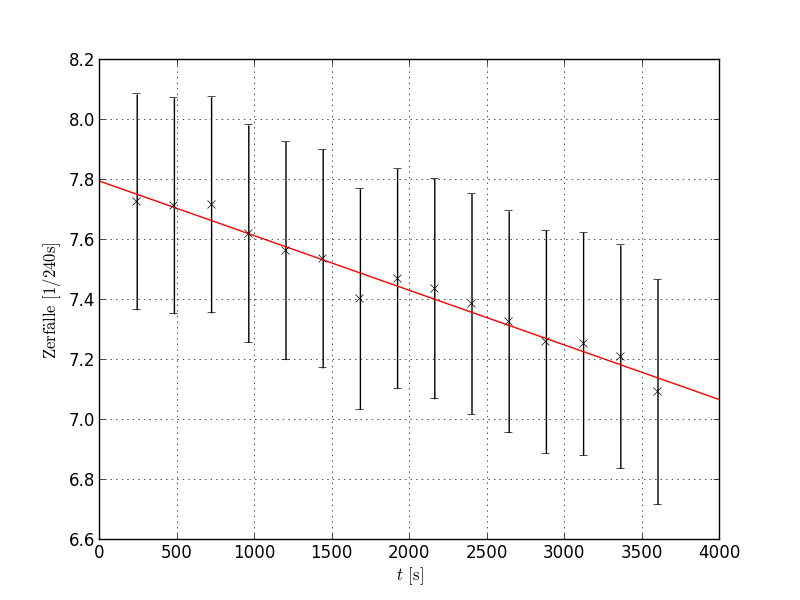
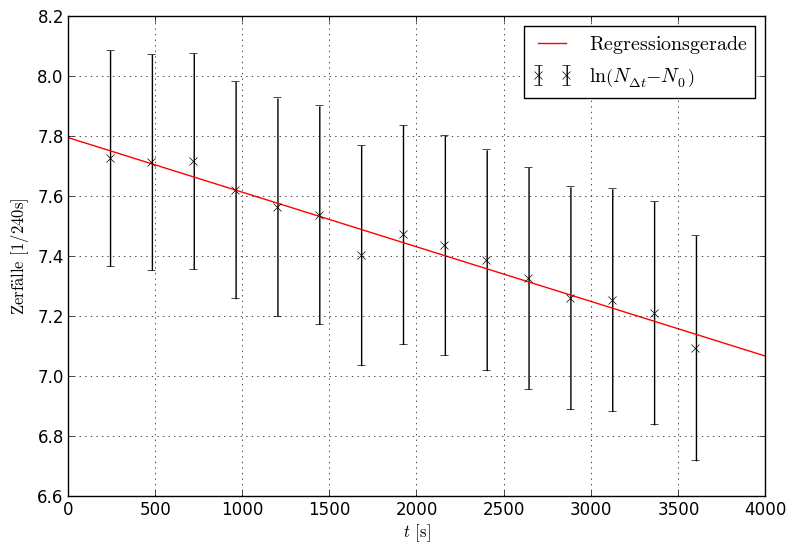
Fast alles feddich. Diskussion fehlt noch

diff --git a/V702_Aktivierung/03_auswertung.tex b/V702_Aktivierung/03_auswertung.tex
@@ -1,51 +1,52 @@
 \section{Auswertung}
 	\label{sec:auswertung}
 	Vor allen Messungen musste der Nulleffekt ermittelt werden, um unsere Messwerte sp"ater von diesem zu bereinigen.
-	Hierf"ur wurden die Zerf"alle $N_0$, die ohne Probe ermittelt werden, "uber lange Zeit gez"ahlt.
-	Anschlie"send konnten die eigentlichen Messungen durchgef"uhrt werden.
+	Hierf"ur wurden die Zerf"alle $N_{\mathrm{u}}$, die ohne Probe ermittelt werden, "uber lange Zeit gez"ahlt.
+	Anschlie"send konnten die eigentlichen Messungen durch\-ge\-f"uhrt werden.
 	
 
-	Um auf die Halbwertszeiten zu schlie"sen konnten die Beziehungen \eqref{bla} aus Kapitel \ref{sec:theorie} verwendet werden.
+	Um auf die Halbwertszeiten zu schlie"sen konnte die Beziehung \eqref{eqn:t_halb} aus Kapitel \ref{sec:theorie} verwendet werden.
 	Weil die Messwerte Poisson-verteilt sind, betrug der Fehler auf die Messwerte
 
-	\begin{eqnarray}
-		\Delta N_{\Delta t, \mathrm{roh}} & = & \sqrt{N_{\Delta t, \mathrm{roh}}}, \\
-		\Delta N_0 & = & \sqrt{N_0},\\
-		\Rightarrow \Delta N_{\Delta t} & = & \sqrt{N_{\Delta t, \mathrm{roh}} + N_0}.
-	\end{eqnarray}
+	\begin{eqnarray*}
+		\Delta N_{\Delta t, \mathrm{gem}} & = & \sqrt{N_{\Delta t, \mathrm{gem}}}, \\
+		\Delta N_{\Delta t, \mathrm{u}} & = & \sqrt{N_{\Delta t, \mathrm{u}}},\\
+		\Rightarrow \Delta N_{\Delta t} & = & \sqrt{N_{\Delta t, \mathrm{gem}} + N_{\Delta t, \mathrm{u}}} .
+	\end{eqnarray*}
 
+	$N_{\Delta t, \mathrm{u}}$ bezeichnet dabei den Nulleffekt pro Messung.
 	Um eine Ausgleichsrechnung durchzuf"uhren wurden die Werte linearisiert, was einen weiteren Fehler durch Gau"s'sche Fehlerfortpflanzung erzeugt:
 
-	\begin{equation}
-		\Delta N = \frac{\partial}{\partial N} \ln{\left( N_{\Delta t, \mathrm{roh}} - N_0 \right)} \cdot \Delta N_{\Delta t} = \frac{\Delta N_{\Delta t}}{N_{\Delta t, \mathrm{roh}} - N_0}
-	\end{equation}
+	\begin{equation*}
+		\Delta N_{l} = \frac{\partial}{\partial N_{\Delta t, \mathrm{gem}}} \ln{\left( N_{\Delta t, \mathrm{gem}} - N_{\Delta t, \mathrm{u}} \right)} \cdot \Delta N_{\Delta t} = \frac{\Delta N_{\Delta t}}{N_{\Delta t, \mathrm{gem}} - N_{\Delta t, \mathrm{u}}} .
+	\end{equation*}
 
 	Schlie"slich konnte eine lineare Regression durchgef"uhrt werden, welche $\lambda$ und somit die Halbwertszeiten $T$ lieferte.
 
 	\subsection{Halbwertszeit von Indium}
 		\label{subsec:indium}
 		Es wurden 15 Messungen "uber jeweils $\Delta t = \SI{240}{\second}$ durchgef"uhrt.
-		Anschlie"send konnte, wie oben beschrieben, durch lineare Regression $T_\mathrm{In}$ ermittelt werden. Es musste dabei wiederum ein Gau"s'scher Fehler ber"uchsichtigt werden:
+		Anschlie"send konnte, wie oben beschrieben, durch lineare Regression $T_\mathrm{In}$ ermittelt werden. Es musste dabei wiederum ein Gau"s'scher Fehler ber"ucksichtigt werden:
 
-		\begin{equation}
-			\Delta T = \left|\frac{\partial T}{\partial \lambda} \cdot \Delta \lambda \right| = \frac{\Delta \lambda}{\lambda^2} \ln{2}
-		\end{equation}
+		\begin{displaymath}
+			\Delta T = \left|\frac{\partial T}{\partial \lambda} \cdot \Delta \lambda \right| = \frac{\Delta \lambda}{\lambda^2} \ln{2} ,
+		\end{displaymath}
 
-
+		wobei $\Delta \lambda$ den Fehler der linearen Regression bezeichnet.
 		Es ergaben sich die Werte
 
-		\begin{eqnarray}
+		\begin{eqnarray*}
 			\lambda & = & \SI{18.212 (94)e-3}{\per \second} , \\
 			T_\mathrm{In} & = & \SI{3823 (195)}{\second} = \SI{1}{\hour}\,\SI{3.417 (3250)}{\minute} .
-		\end{eqnarray}
+		\end{eqnarray*}
 
-		\begin{table}
+		\begin{table}[!h]
 			\begin{center}
 				\label{tabelle:indium}
 				\caption{Messwerte f"ur Indium-116}
 				\begin{tabular}{|c|c||c|c|}
 					\hline 
-					Messung & $N_{\Delta t, \mathrm{roh}}[1 / 240\,\mathrm{s}]$ & Messung & $N_{\Delta t, \mathrm{roh}}[1 / 240\,\mathrm{s}]$\\
+					Messung & $N_{\Delta t, \mathrm{gem}}[1 / 240\,\mathrm{s}]$ & Messung & $N_{\Delta t, \mathrm{gem}}[1 / 240\,\mathrm{s}]$\\
 					\hline 
 					\input{data/indium_raw.tex}
 					\hline 
@@ -60,42 +61,45 @@
 			\label{fig:indium}
 		\end{figure}
 
-	\newpage
+	\clearpage
 
 	\subsection{Halbwertszeit von Rhodium}
 		\label{subsec:rhodium}
 		Bei dieser Messung war zu beachten, dass die Probe zwei verschiedene Isotope ${}_{45}^{104}\mathrm{Rh}$ und das angeregte ${}_{45}^{104i}\mathrm{Rh}$ enthielt.
 		Weil beide Isotope aber unterschiedliche Halbwertszeiten $T_\mathrm{Rh}$ haben,
-		konnte zun"achst, wie in \ref{theorie} beschrieben, die gr"o"sere Halbwertszeit $T_{\mathrm{Rh}, 2}$ bestimmt werden.
+		konnte zun"achst, wie in Kapitel \ref{sec:theorie} beschrieben, die gr"o"sere Halbwertszeit $T_{\mathrm{Rh}, 2}$ bestimmt werden.
 
 		Anschlie"send wurden die hierdurch verursachten Zerf"alle von den ersten 19 Messwerten abgezogen und wie in Kapitel \ref{subsec:indium} fortgefahren.
 
 		$T_{\mathrm{Rh}, 1}$ bezeichnet im Folgenden die Halbwertszeit f"ur die ersten 19 Messwerte, also ${}_{45}^{104i}\mathrm{Rh}$ und $T_{\mathrm{Rh}, 2}$ f"ur die letzten 19 Messwerte, also ${}_{45}^{104}\mathrm{Rh}$.
 
 		Zwei mittlere Messwerte wurden ausgelassen, weil die statistischen Schwankungen zu fehlern in der Rechnung f"uhrten.
+		\newline
 
 
 		F"ur ${}_{45}^{104}\mathrm{Rh}$ ergab sich dann
 
-		\begin{eqnarray}
+		\begin{eqnarray*}
 			\lambda & = & \SI{16.85 (93)e-3}{\per \second} , \\
 			T_\mathrm{In} & = & \SI{41.146 (2270)}{\second} .
-		\end{eqnarray}
+		\end{eqnarray*}
 
-		F"ur ${}_{45}^{104i}\mathrm{Rh}$ lieferten die Werte
+		F"ur ${}_{45}^{104i}\mathrm{Rh}$ lieferten die Messwerte
 
-		\begin{eqnarray}
+		\begin{eqnarray*}
 			\lambda & = & \SI{2.418 (840)e-3}{\per \second} , \\
 			T_\mathrm{In} & = & \SI{286.63 (9958)}{\second} = \SI{4.78 (66)}{\minute} .
-		\end{eqnarray}
+		\end{eqnarray*}
 
-		\begin{table}
+		\clearpage
+
+		\begin{table}[!h]
 			\begin{center}
 				\caption{Messwerte f"ur Rhodium}
 				\label{tabelle:rhodium}
-				\begin{tabular}{|c|c||c|c|}
+				\begin{tabular}{|c|c||c|c||c|c|}
 					\hline 
-					Messung & $N_{\Delta t, \mathrm{roh}}[1 / 12\,\mathrm{s}]$ & Messung & $N_{\Delta t, \mathrm{roh}}[1 / 12\,\mathrm{s}]$\\
+					Messung & $N_{\Delta t, \mathrm{gem}}[1 / 12\,\mathrm{s}]$ & Messung & $N_{\Delta t, \mathrm{gem}}[1 / 12\,\mathrm{s}]$ & Messung & $N_{\Delta t, \mathrm{gem}}[1 / 12\,\mathrm{s}]$\\
 					\hline 
 					\input{data/rhodium_raw.tex}
 					\hline 
@@ -103,9 +107,13 @@
 			\end{center}
 		\end{table}
 
-		\begin{figure}[h]
+		\enlargethispage{5cm}
+
+		\begin{figure}[!h]
 			\centering
-			\includegraphics[width = 15cm]{img/graph_rhodium_linearisiert.png}
+			\includegraphics[width = 14cm]{img/graph_rhodium_linearisiert.png}
 			\caption{Bereinigte Messwerte und Graph f"ur Rhodium-104 und Rhodium 104i}
 			\label{fig:the_label}
 		\end{figure}
+
+		\clearpage

diff --git a/V702_Aktivierung/data/fit_linear.py b/V702_Aktivierung/data/fit_linear.py
@@ -5,7 +5,7 @@ from scipy.optimize import curve_fit
 import datetime as dt
 import pylab
 
-data = 'rhodium'
+data = 'indium'
 
 if data == 'rhodium':
 	# Graph fuer Rhodium
@@ -71,7 +71,7 @@ if data == 'rhodium':
 	plt.plot(x2_theorie_punkte, funk(x2_theorie_punkte, p2[0], p2[1]), 'b--')
 	werte_2 = plt.errorbar(x2, y2, yerr = np.sqrt(y2 + N_Dunkel) / (y2 - N_Dunkel), fmt = 'yx')
 
-	plt.legend((werte_1, gerade_1, werte_2, gerade_2), (r'$\ln{\left(N_{\Delta t} - N_{\Delta , l} - N_0 \right)}$', r'$\mathrm{Theoriekurve\ 1}$', r'$\ln{\left( N_{\Delta t} - N_0 \right)}$', r'$\mathrm{Theoriekurve\ 2}$'))
+	plt.legend((werte_1, gerade_1, werte_2, gerade_2), (r'$\ln{\left(N_{\Delta t} - N_{\Delta , l} - N_0 \right)}$', r'$\mathrm{Regressionsgerade\ 1}$', r'$\ln{\left( N_{\Delta t} - N_0 \right)}$', r'$\mathrm{Regressionsgerade\ 2}$'))
 
 	t_halb1 = np.log(2) / p[0]
 	t_halb2 = np.log(2) / p2[0]
@@ -110,9 +110,10 @@ elif data == 'indium':
 	p, cov = curve_fit(funk, x, y, p0 = vor_werte, sigma = y_error, maxfev = 1000)
 	print(p)
 	print(cov)
-	plt.plot(x_theorie, funk(x_theorie, p[0], p[1]), 'r-')
 
-	plt.errorbar(x, y, yerr = np.sqrt(y + N_Dunkel) / (y - N_Dunkel), fmt = 'kx')
+	gerade, = plt.plot(x_theorie, funk(x_theorie, p[0], p[1]), 'r-')
+	werte = plt.errorbar(x, y, yerr = np.sqrt(y + N_Dunkel) / (y - N_Dunkel), fmt = 'kx')
+	plt.legend((gerade, werte), (r'$\mathrm{Regressionsgerade}$', r'$\ln{\left( N_{\Delta t} - N_0 \right)}$'))
 
 	t_halb = np.log(2) / p[0]
 	t_halb_err = np.log(2) * np.sqrt(cov[0][0]) / (p[0] ** 2)
@@ -122,6 +123,9 @@ elif data == 'indium':
 	print('=> Halbwertszeit: ' + str(t_halb) + ' s = ' + str(dt.timedelta(seconds = t_halb)))
 	print('=> Fehler T_h: ' + str(t_halb_err) + ' = ' + str(t_halb_err / t_halb * 100) + '%')
 
+fig = plt.gcf() #Gibt Referent auf die aktuelle Figur - "get current figure"
+fig.set_size_inches(9, 6)
+
 plt.grid(which = 'both')
-plt.savefig('../img/graph_' + data + '_linearisiert.png')
+plt.savefig('../img/graph_' + data + '_linearisiert.png', bbox_inches='tight')
 plt.clf()

diff --git a/V702_Aktivierung/data/rhodium_raw.tex b/V702_Aktivierung/data/rhodium_raw.tex
@@ -1,20 +1,14 @@
-1 & 449 & 21 & 40 \\
-2 & 405 & 22 & 30 \\
-3 & 402 & 23 & 41 \\
-4 & 356 & 24 & 31 \\
-5 & 278 & 25 & 46 \\
-6 & 247 & 26 & 23 \\
-7 & 165 & 27 & 27 \\
-8 & 155 & 28 & 43 \\
-9 & 162 & 29 & 23 \\
-10 & 142 & 30 & 37 \\
-11 & 112 & 31 & 25 \\
-12 & 116 & 32 & 24 \\
-13 & 97 & 33 & 17 \\
-14 & 83 & 34 & 19 \\
-15 & 69 & 35 & 19 \\
-16 & 72 & 36 & 23 \\
-17 & 48 & 37 & 30 \\
-18 & 55 & 38 & 23 \\
-19 & 51 & 39 & 21 \\
-20 & 50 & 40 & 25 \\
+1 & 449 & 15 & 69 & 29 & 23 \\
+2 & 405 & 16 & 72 & 30 & 37 \\
+3 & 402 & 17 & 48 & 31 & 25 \\
+4 & 356 & 18 & 55 & 32 & 24 \\
+5 & 278 & 19 & 51 & 33 & 17 \\
+6 & 247 & 20 & 50 & 34 & 19 \\
+7 & 165 & 21 & 40 & 35 & 19 \\
+8 & 155 & 22 & 30 & 36 & 23 \\
+9 & 162 & 23 & 41 & 37 & 30 \\
+10 & 142 & 24 & 31 & 38 & 23 \\
+11 & 112 & 25 & 46 & 39 & 21 \\
+12 & 116 & 26 & 23 & 40 & 25 \\
+13 & 97 & 27 & 27 && \\
+14 & 83 & 28 & 43 && \\

diff --git a/V702_Aktivierung/02_durchfuehrung.tex b/V702_Aktivierung/02_durchfuehrung.tex
@@ -14,7 +14,7 @@
 
 		\begin{figure}[!h]
 			\centering
-			\includegraphics[width = 15cm]{img/aufbau.jpg}
+			\includegraphics[width = 10cm]{img/aufbau.jpg}
 			\caption{Versuchsaufbau \cite{anleitung}}
 			\label{fig:aufbau}
 		\end{figure}
@@ -23,5 +23,5 @@
 		\label{subsec:aufgaben}
 		\begin{enumerate}
 			\item{Bestimmung der Halbwertszeit $T_\mathrm{In}$ von Indium-116}
-			\item{Bestimmung der Halbwertszeit $T_{\mathrm{Rh}, 1}$ von Rhodium-104 und $T_{\mathrm{Rh}, 2}$ von Rhodium-104i}
+			\item{Bestimmung der Halbwertszeiten $T_{\mathrm{Rh}, 1}$ von Rhodium-104 und $T_{\mathrm{Rh}, 2}$ von Rhodium-104i}
 		\end{enumerate}

diff --git a/V702_Aktivierung/01_theorie_einleitung.tex b/V702_Aktivierung/01_theorie_einleitung.tex
@@ -150,10 +150,11 @@
 
 		Daraus folgt aus \eqref{zerfall} f"ur die Halbwertszeit aus der Zerfallskonstanten:
 
-		\begin{eqnarray*}
-			\frac{1}{2} N_0 &=& N_0 exp{(-\lambda T)},\\
+		\begin{eqnarray}
+			\frac{1}{2} N_0 &=& N_0 exp{(-\lambda T)}, \nonumber \\
 			\Rightarrow \qquad T &=& \frac{\ln{2}}{\lambda}.
-		\end{eqnarray*}
+			\label{eqn:t_halb}
+		\end{eqnarray}
 
 		Da $N(t)$ nicht zuverl"assig ermittelt werden kann, wird stattdessen $N_{\Delta t}(t)$ gemessen. 
 		$N_{\Delta t}(t)$ steht dabei f"ur die in der Zeit $\Delta t$ zerfallenen Kerne.
